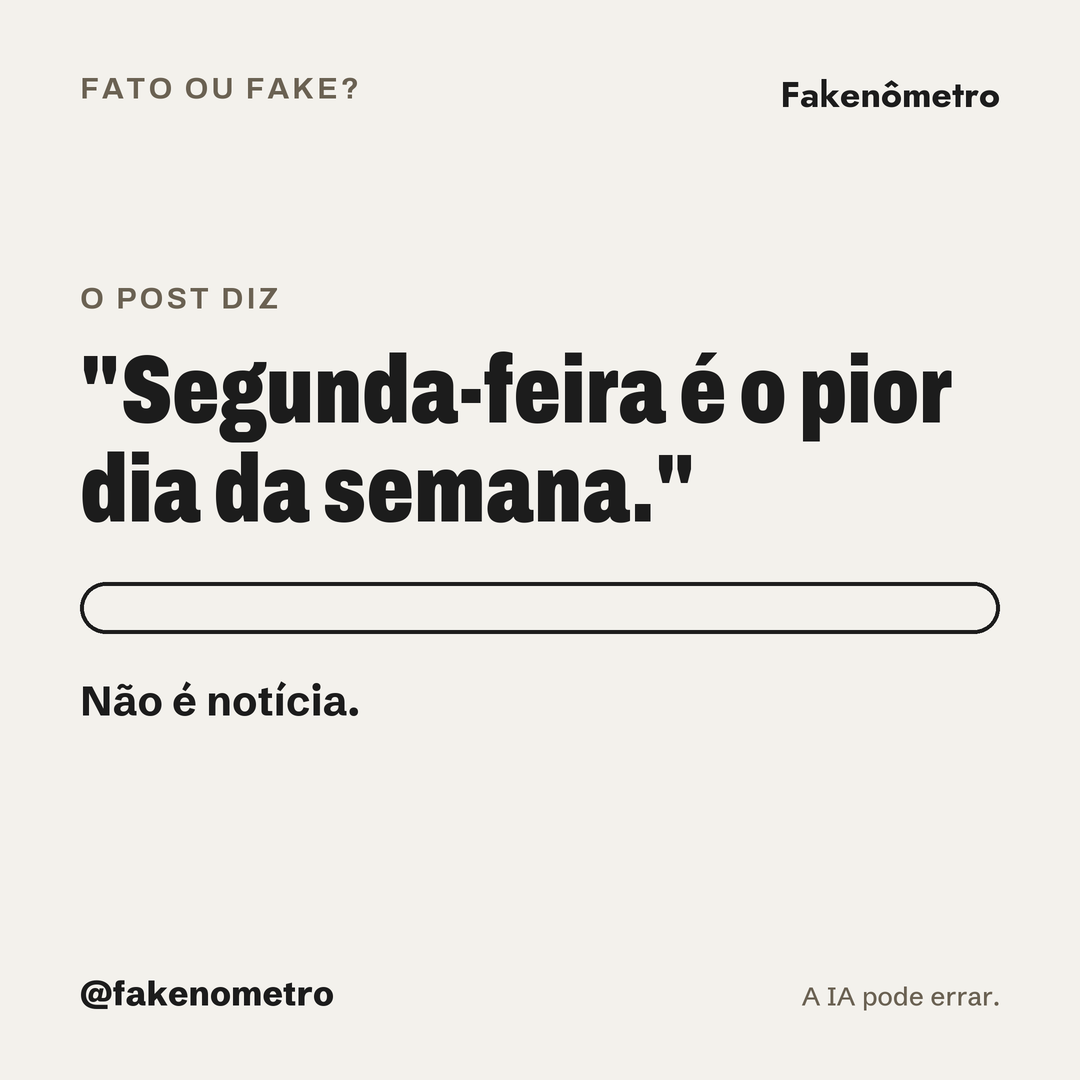
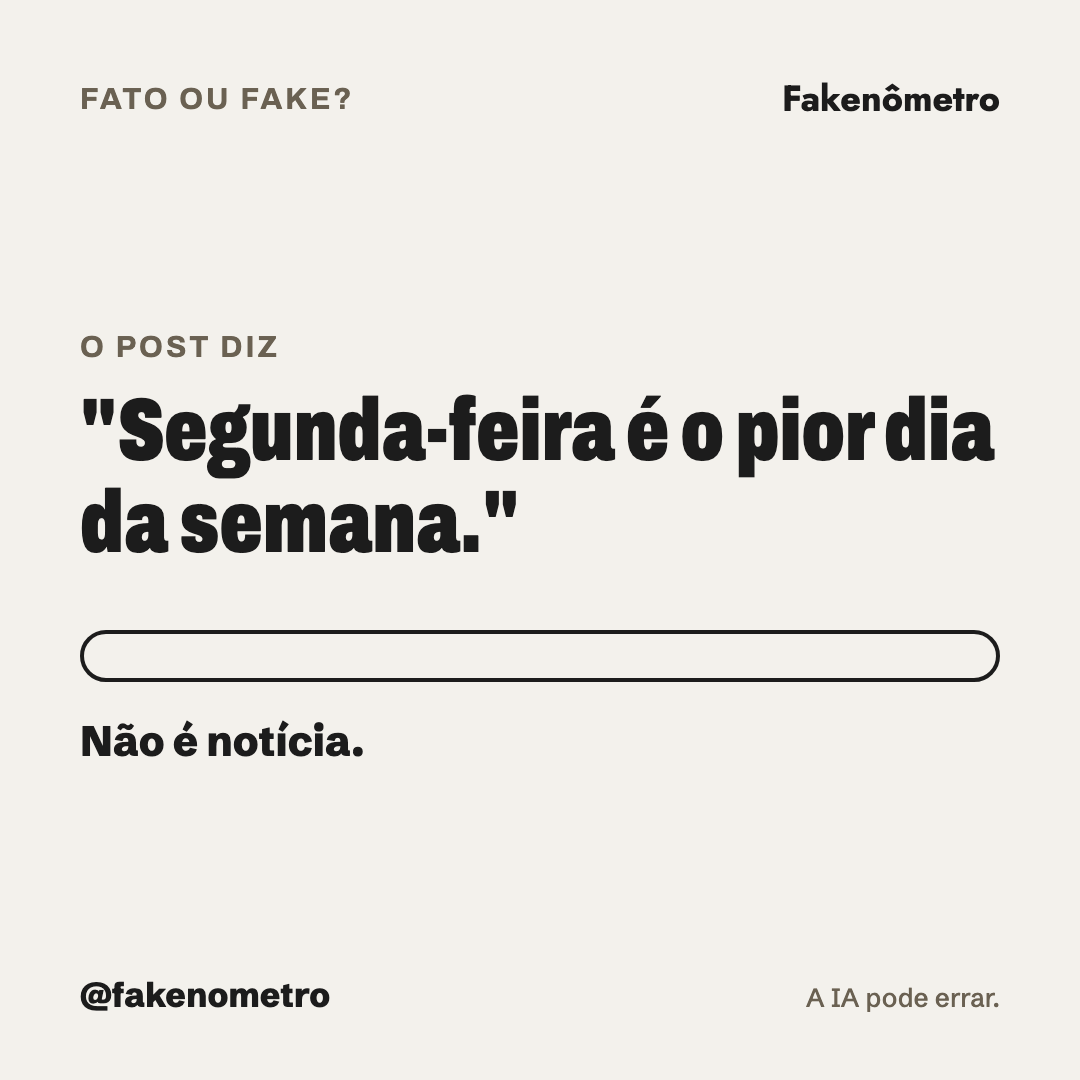
Termômetro com quatro cards e página de Contato (Roberta, 1/11)

diff --git a/numeros/index.html b/numeros/index.html
@@ -15,7 +15,7 @@
 </head><body>
 <header class="topo"><a class="marca" href="/"><img src="/marca/icone-192.png" alt="" width="40" height="40">Fakenômetro</a></header>
 <div class="menu"><nav aria-label="Seções">
-<a href="/">Início</a><a href="/manifesto">Manifesto</a><a href="/golpes/">Golpes</a><a href="/termometro/">Termômetro</a><a href="/debate/">Eleição 2026</a><a href="mailto:contato@fakenometro.com.br">Contato</a>
+<a href="/">Início</a><a href="/manifesto">Manifesto</a><a href="/golpes/">Golpes</a><a href="/termometro/">Termômetro</a><a href="/debate/">Eleição 2026</a><a href="/contato/">Contato</a>
 </nav></div>
 <main>
 <section class="capa"><div>
@@ -46,7 +46,8 @@ document.addEventListener("pointerover",e=>{const b=e.target.closest(".colunas s
 fetch("dados.json",{cache:"no-store"}).then(r=>r.json()).then(d=>{const t=d.t28,c=d.canais;
 document.getElementById("ig").innerHTML=tile(t.views,"visualizações "+per)+tile(d.seguidores,"seguidores")+tile(d.posts,"posts no feed")+tile(t.accounts_engaged,"contas engajadas "+per)+tile(t.shares,"compartilhamentos "+per)+tile(t.saves,"salvamentos "+per);
 document.getElementById("alcance").innerHTML=colunas(d.alcance.filter(x=>x.dia>="2026-10-17").map(x=>[x.dia,x.valor]),"contas alcançadas");
-document.getElementById("top").innerHTML=d.top.map((p,i)=>`<a class="lamina" href="${esc(p.link)}" style="text-decoration:none"><div class="topo-l"><span>${p.formato} · ${dm(p.quando)}</span></div><div class="frase-l">${esc(p.titulo||"Post")}</div><div><b style="font:850 28px Archivo,sans-serif">${N(p.views)}</b> visualizações</div><div class="rod-l">${N(p.alcance)} contas · ${N(p.compart)} compartilhamentos</div></a>`).join("");
+const corta=s=>s.length<90?s:s.slice(0,s.lastIndexOf(" "))+"…";
+document.getElementById("top").innerHTML=d.top.map((p,i)=>`<a class="lamina" href="${esc(p.link)}" style="text-decoration:none"><div class="topo-l"><span>${p.formato} · ${dm(p.quando)}</span></div><div class="frase-l">${esc(corta(p.titulo||"Post"))}</div><div><b style="font:850 28px Archivo,sans-serif">${N(p.views)}</b> visualizações</div><div class="rod-l">${N(p.alcance)} contas · ${N(p.compart)} compartilhamentos</div></a>`).join("");
 document.getElementById("cons").innerHTML=tile(d.total_publico,"consultas desde 20/10")+tile(c.instagram||0,"no direct")+tile(c.whatsapp||0,"no WhatsApp, desde 26/10")+tile(c.comentario||0,"nos comentários");
 document.getElementById("porDia").innerHTML=colunas(d.por_dia,"consultas");
 document.getElementById("nota").textContent=`Atualizado em ${dm(d.atualizado_em)}. Fonte: Instagram Insights (API oficial da Meta) e registro interno do robô. As consultas incluem testes da nossa equipe, que o registro não separa. O WhatsApp só tem contagem de consultas, sem alcance. A checagem em lote do debate não entra nas consultas.`;

diff --git a/contato/index.html b/contato/index.html
@@ -1,0 +1,36 @@
+<!doctype html>
+<html lang="pt-BR"><head><meta charset="utf-8">
+<meta name="viewport" content="width=device-width,initial-scale=1">
+<meta name="color-scheme" content="light only">
+<title>Contato · Fakenômetro</title>
+<meta name="facebook-domain-verification" content="pnf70wn1ixz6p786dz6t7g1vquiz16">
+<meta name="description" content="Fale com o Fakenômetro.">
+<meta property="og:title" content="Contato · Fakenômetro"><meta property="og:description" content="Fale com o Fakenômetro.">
+<meta property="og:image" content="https://fakenometro.com.br/marca/capa.png">
+<link rel="icon" href="/marca/icone-192.png"><link rel="apple-touch-icon" href="/marca/icone-192.png">
+<script>document.documentElement.classList.add("js")</script>
+<link rel="stylesheet" href="/estilo.css">
+<script src="/site.js" defer></script>
+</head><body>
+<header class="topo"><a class="marca" href="/"><img src="/marca/icone-192.png" alt="" width="40" height="40">Fakenômetro</a></header>
+<div class="menu"><nav aria-label="Seções">
+<a href="/">Início</a><a href="/manifesto">Manifesto</a><a href="/golpes/">Golpes</a><a href="/termometro/">Termômetro</a><a href="/debate/">Eleição 2026</a><a href="/contato/" class="ativo">Contato</a>
+</nav></div>
+<main>
+<section class="capa"><div>
+<p class="etiqueta">Contato</p>
+<h1>Fale com <span class="mt">a gente.</span></h1>
+<p class="sub">Dúvida, imprensa, parceria ou erro em alguma checagem: escreva para o nosso e-mail.</p>
+<p class="mao">erro nosso a gente quer saber</p>
+</div><div class="cx">
+<p class="etiqueta">Nosso e-mail</p>
+<p style="font:800 clamp(20px,2.4vw,28px)/1.2 Archivo,sans-serif;margin:0 0 14px;overflow-wrap:anywhere">contato@fakenometro.com.br</p>
+<button class="botao" id="copiar" type="button">Copiar e-mail</button><a class="botao sec" href="mailto:contato@fakenometro.com.br">Abrir no e-mail</a>
+<p class="mini" style="margin-top:14px">Quer checar um post ou uma mensagem? O caminho é o <a href="https://wa.me/5511925338619">WhatsApp</a> ou o direct do <a href="https://www.instagram.com/fakenometro/">Instagram</a>.</p>
+</div></section>
+</main>
+<script>
+document.getElementById("copiar").onclick=async function(){const t="contato@fakenometro.com.br";try{await navigator.clipboard.writeText(t)}catch(e){const a=document.createElement("textarea");a.value=t;document.body.append(a);a.select();document.execCommand("copy");a.remove()}this.textContent="Copiado"};
+</script>
+<footer id="contato"><p>É inteligência artificial e pode errar. O Fakenômetro é um projeto brasileiro independente.</p>
+<p><a href="/numeros/">Números</a><a href="https://www.instagram.com/fakenometro/">Instagram</a><a href="/privacidade">Privacidade</a><a href="/exclusao-de-dados">Exclusão de dados</a></p></footer></body></html>

diff --git a/index.html b/index.html
@@ -25,11 +25,11 @@ h1{font:850 clamp(30px,4.15vw,54px)/1.14 Archivo;font-stretch:72%;margin:0 0 12p
 @media(max-width:600px){.mn{flex-wrap:nowrap;gap:3px;padding-left:6px;padding-right:6px}.mn a{font-size:min(3.1vw,13px);font-stretch:75%;padding:5px min(1.6vw,9px);white-space:nowrap}}
 @media(max-width:760px){main{grid-template-columns:1fr;gap:14px;align-content:center;padding:4px 16px}h1{font-size:7.6vw}.fr0{font-size:15px;margin-bottom:12px}.fr{font-size:31px}.pq2{font-size:14px;margin-top:9px}.mao{margin-top:9px;font-size:18px}.bt{padding:10px 14px}}</style></head><body>
 <header class="top"><img src="/marca/icone-192.png" alt="">Fakenômetro</header>
-<nav class="mn"><a href="/manifesto">Manifesto</a><a href="/golpes/">Golpes</a><a href="/termometro/">Termômetro</a><a href="/debate/">Eleição 2026</a><a href="mailto:contato@fakenometro.com.br">Contato</a></nav>
+<nav class="mn"><a href="/manifesto">Manifesto</a><a href="/golpes/">Golpes</a><a href="/termometro/">Termômetro</a><a href="/debate/">Eleição 2026</a><a href="/contato/">Contato</a></nav>
 <main><div><h1>A mentira tem pressa.<br>A gente tem <span class="fxc"><span class="fx" id="fx" aria-label="fonte"><i>f</i><i>o</i><i>n</i><i>t</i><i>e</i></span>.</span></h1>
 <p class="fr0">Boato e golpe vivem da urgência. Encaminha para a nossa IA: ela confere antes de você repassar ou pagar.</p>
 <a class="bt" href="https://wa.me/5511925338619">Testar no WhatsApp</a></div>
-<div class="cx"><div class="fr">Em <span class="mt"><span id="dias">15</span> dias</span> de vida,<br><span id="vis">51.779</span> visualizações.</div><p class="pq2"><span id="seg">275</span> seguidores e <span id="cons">332</span> consultas ao robô até agora.</p><p class="mao">(grupo de WhatsApp não é bibliografia)</p><small>Consultas incluem testes da equipe.</small></div></main>
+<div class="cx"><div class="fr">Em <span class="mt"><span id="dias">15</span> dias</span> de vida,<br><span id="vis">51.899</span> visualizações.</div><p class="pq2"><span id="seg">278</span> seguidores e <span id="cons">338</span> consultas ao robô até agora.</p><p class="mao">(grupo de WhatsApp não é bibliografia)</p><small>Consultas incluem testes da equipe.</small></div></main>
 <footer class="pe"><span>É inteligência artificial e pode errar.</span><a href="/numeros/">Números</a><a href="https://www.instagram.com/fakenometro/">Instagram</a><a href="/privacidade">Privacidade</a><a href="/exclusao-de-dados">Exclusão de dados</a></footer>
 <script>
 const P=["fonte","prova","documento","dado","registro","evidência"],F=document.getElementById("fx"),L="abcdefghijlmnoprstuvxz";let n=0;

diff --git a/manifesto.html b/manifesto.html
@@ -15,7 +15,7 @@ h1{font:900 clamp(46px,9vw,92px)/.92 Archivo;font-stretch:66%;text-transform:upp
 .g0,.g1,.g2{display:block;font-family:Archivo;font-weight:900;font-stretch:70%;letter-spacing:-.01em}.g0{font-size:clamp(46px,8vw,72px);line-height:1;margin:50px 0}.g1,.g2{font-size:clamp(32px,4.4vw,44px);line-height:1.06;margin:32px 0}.n{font-weight:800}
 .assina{font-style:italic;font-size:16px;margin-top:40px}</style></head>
 <body><main><a class="nome" href="/"><img src="/marca/icone-192.png" alt="">Fakenômetro</a>
-<nav class="mn"><a href="/">Início</a><a class="on" href="/manifesto">Manifesto</a><a href="/golpes/">Golpes</a><a href="/termometro/">Termômetro</a><a href="/debate/">Eleição 2026</a><a href="mailto:contato@fakenometro.com.br">Contato</a></nav>
+<nav class="mn"><a href="/">Início</a><a class="on" href="/manifesto">Manifesto</a><a href="/golpes/">Golpes</a><a href="/termometro/">Termômetro</a><a href="/debate/">Eleição 2026</a><a href="/contato/">Contato</a></nav>
 <h1>Manifesto do Fakenômetro</h1>
 <p><span class="g0">“Uma mentira contada mil vezes torna-se verdade.”</span></p>
 <p>Muitos veem nessa frase a grande inspiração das fake news. A ironia é que a frase, atribuída ao nefasto e abjeto Joseph Goebbels, ministro da Propaganda de Adolf Hitler, nunca foi dita por ele (ou, pelo menos, não há registro histórico de que a tenha dito). <span class="g2">Ou seja: a mãe das fake news é, ela mesma, uma fake news!</span></p>

diff --git a/privacidade.html b/privacidade.html
@@ -14,7 +14,7 @@
 </head><body>
 <header class="topo"><a class="marca" href="/"><img src="/marca/icone-192.png" alt="" width="40" height="40">Fakenômetro</a></header>
 <div class="menu"><nav aria-label="Seções">
-<a href="/">Início</a><a href="/manifesto">Manifesto</a><a href="/golpes/">Golpes</a><a href="/termometro/">Termômetro</a><a href="/debate/">Eleição 2026</a><a href="mailto:contato@fakenometro.com.br">Contato</a>
+<a href="/">Início</a><a href="/manifesto">Manifesto</a><a href="/golpes/">Golpes</a><a href="/termometro/">Termômetro</a><a href="/debate/">Eleição 2026</a><a href="/contato/">Contato</a>
 </nav></div>
 <main class="miolo legal" style="max-width:760px;padding-top:40px;padding-bottom:40px">
 <h1>Política de Privacidade do Fakenômetro</h1>

diff --git a/exclusao-de-dados.html b/exclusao-de-dados.html
@@ -14,7 +14,7 @@
 </head><body>
 <header class="topo"><a class="marca" href="/"><img src="/marca/icone-192.png" alt="" width="40" height="40">Fakenômetro</a></header>
 <div class="menu"><nav aria-label="Seções">
-<a href="/">Início</a><a href="/manifesto">Manifesto</a><a href="/golpes/">Golpes</a><a href="/termometro/">Termômetro</a><a href="/debate/">Eleição 2026</a><a href="mailto:contato@fakenometro.com.br">Contato</a>
+<a href="/">Início</a><a href="/manifesto">Manifesto</a><a href="/golpes/">Golpes</a><a href="/termometro/">Termômetro</a><a href="/debate/">Eleição 2026</a><a href="/contato/">Contato</a>
 </nav></div>
 <main class="miolo legal" style="max-width:760px;padding-top:40px;padding-bottom:40px">
 <h1>Exclusão de dados</h1>

diff --git a/debate/index.html b/debate/index.html
@@ -15,7 +15,7 @@
 </head><body>
 <header class="topo"><a class="marca" href="/"><img src="/marca/icone-192.png" alt="" width="40" height="40">Fakenômetro</a></header>
 <div class="menu"><nav aria-label="Seções">
-<a href="/">Início</a><a href="/manifesto">Manifesto</a><a href="/golpes/">Golpes</a><a href="/termometro/">Termômetro</a><a href="/debate/" class="ativo">Eleição 2026</a><a href="mailto:contato@fakenometro.com.br">Contato</a>
+<a href="/">Início</a><a href="/manifesto">Manifesto</a><a href="/golpes/">Golpes</a><a href="/termometro/">Termômetro</a><a href="/debate/" class="ativo">Eleição 2026</a><a href="/contato/">Contato</a>
 </nav></div>
 <main>
 <section class="capa"><div>

diff --git a/golpes/index.html b/golpes/index.html
@@ -14,7 +14,7 @@
 </head><body>
 <header class="topo"><a class="marca" href="/"><img src="/marca/icone-192.png" alt="" width="40" height="40">Fakenômetro</a></header>
 <div class="menu"><nav aria-label="Seções">
-<a href="/">Início</a><a href="/manifesto">Manifesto</a><a href="/golpes/" class="ativo">Golpes</a><a href="/termometro/">Termômetro</a><a href="/debate/">Eleição 2026</a><a href="mailto:contato@fakenometro.com.br">Contato</a>
+<a href="/">Início</a><a href="/manifesto">Manifesto</a><a href="/golpes/" class="ativo">Golpes</a><a href="/termometro/">Termômetro</a><a href="/debate/">Eleição 2026</a><a href="/contato/">Contato</a>
 </nav></div>
 <main>
 <section class="capa"><div>

diff --git a/termometro/index.html b/termometro/index.html
@@ -14,7 +14,7 @@
 </head><body>
 <header class="topo"><a class="marca" href="/"><img src="/marca/icone-192.png" alt="" width="40" height="40">Fakenômetro</a></header>
 <div class="menu"><nav aria-label="Seções">
-<a href="/">Início</a><a href="/manifesto">Manifesto</a><a href="/golpes/">Golpes</a><a href="/termometro/" class="ativo">Termômetro</a><a href="/debate/">Eleição 2026</a><a href="mailto:contato@fakenometro.com.br">Contato</a>
+<a href="/">Início</a><a href="/manifesto">Manifesto</a><a href="/golpes/">Golpes</a><a href="/termometro/" class="ativo">Termômetro</a><a href="/debate/">Eleição 2026</a><a href="/contato/">Contato</a>
 </nav></div>
 <main>
 <section class="capa"><div>
